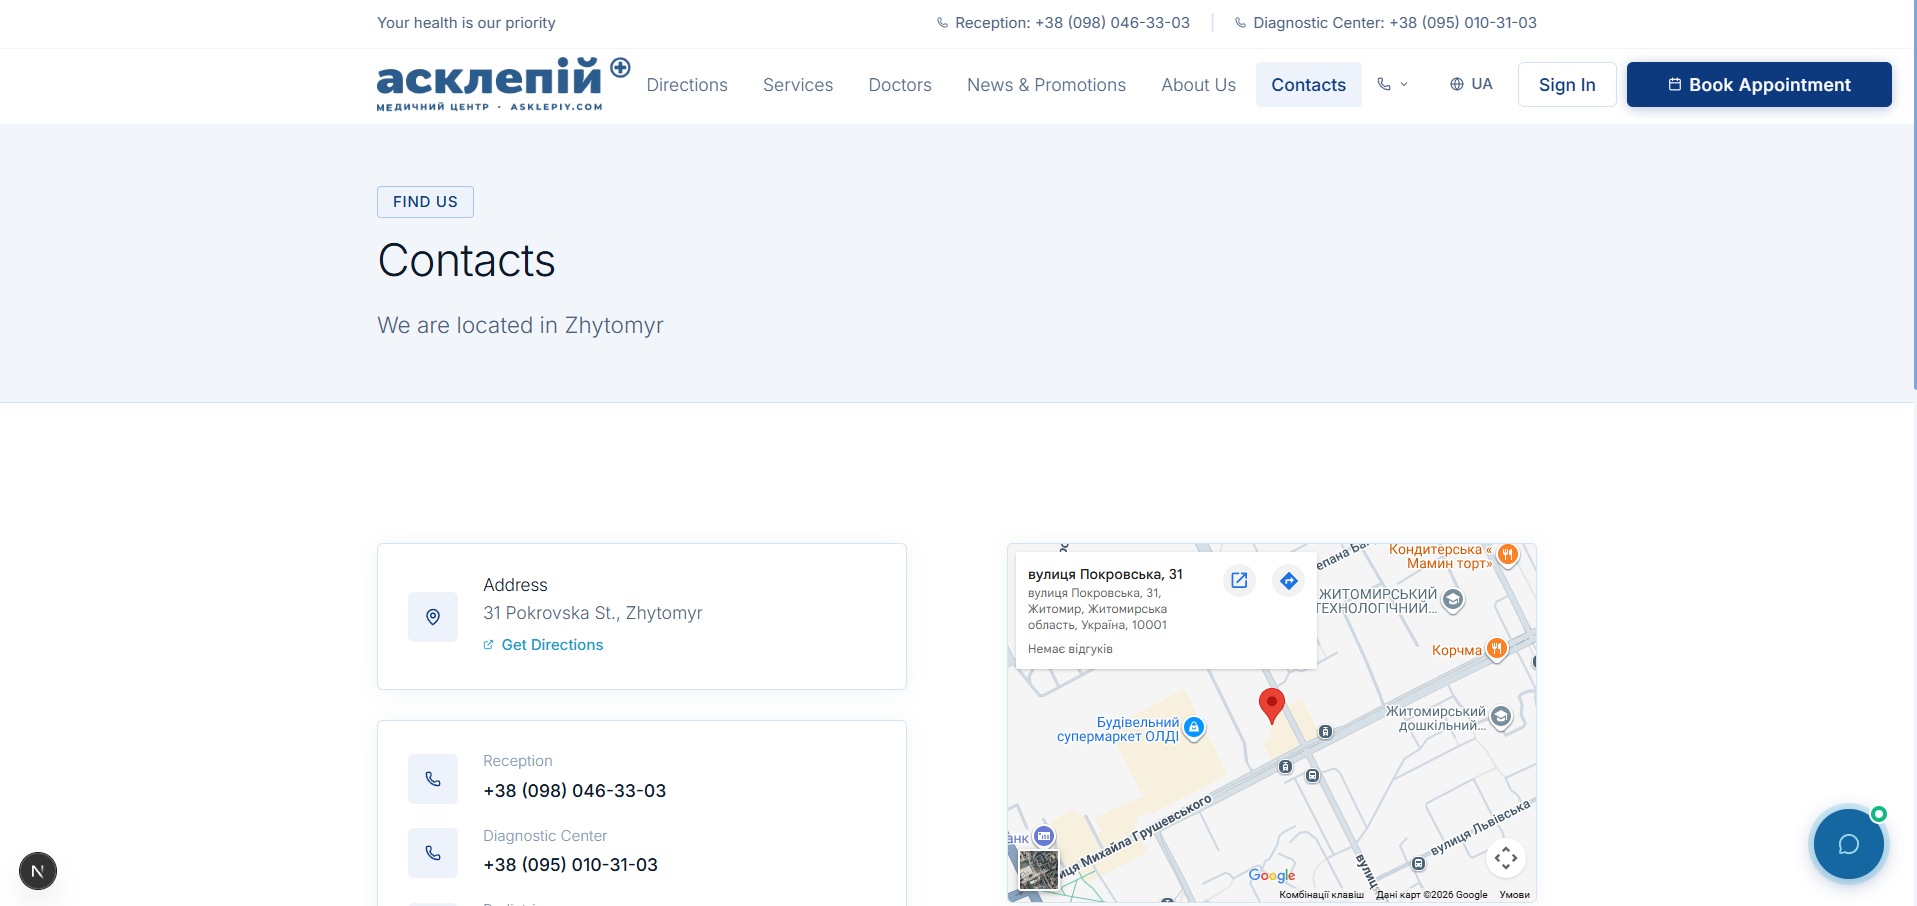
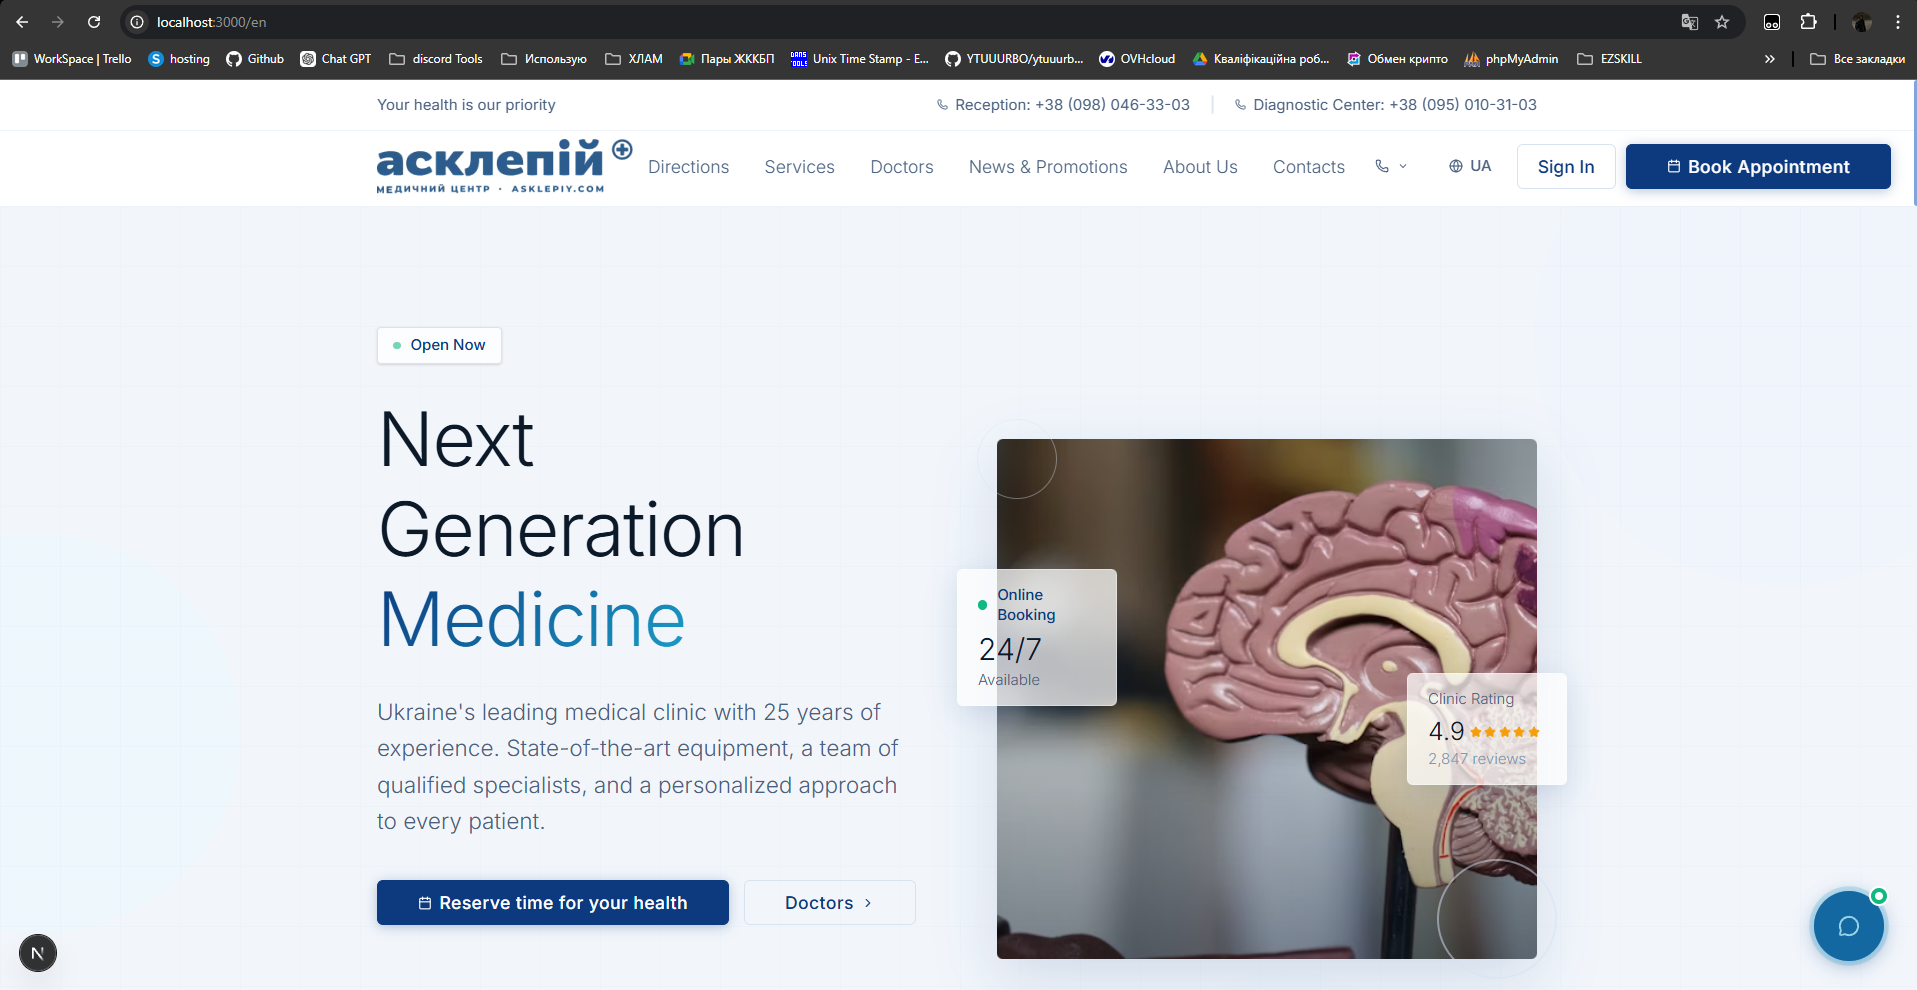
Fixed

diff --git a/src/components/layout/Header.tsx b/src/components/layout/Header.tsx
@@ -38,26 +38,8 @@ export function Header() {
   }, [pathname]);
 
   useEffect(() => {
-    if (mobileOpen) {
-      const scrollY = window.scrollY;
-      document.body.style.position = "fixed";
-      document.body.style.top = `-${scrollY}px`;
-      document.body.style.width = "100%";
-      document.body.style.overflow = "hidden";
-    } else {
-      const scrollY = document.body.style.top;
-      document.body.style.position = "";
-      document.body.style.top = "";
-      document.body.style.width = "";
-      document.body.style.overflow = "";
-      if (scrollY) window.scrollTo(0, parseInt(scrollY) * -1);
-    }
-    return () => {
-      document.body.style.position = "";
-      document.body.style.top = "";
-      document.body.style.width = "";
-      document.body.style.overflow = "";
-    };
+    document.documentElement.style.overflowY = mobileOpen ? "hidden" : "";
+    return () => { document.documentElement.style.overflowY = ""; };
   }, [mobileOpen]);
 
   type AppPath = "/" | "/napryamky" | "/posluhy" | "/likari" | "/novyny" | "/pro-nas" | "/kontakty";
@@ -96,22 +78,22 @@ export function Header() {
         {/* Top bar */}
         <div className="border-b border-[#D6E3F0]/40 hidden lg:block">
           <div className="container-clinic">
-            <div className="flex items-center justify-between h-10 text-xs text-[#4A6180]">
+            <div className="flex items-center justify-between h-[30px] text-[11px] text-[#4A6180]">
               <span className="whitespace-nowrap">{t("header.tagline")}</span>
-              <div className="flex items-center gap-4 flex-shrink-0">
+              <div className="flex items-center gap-3 flex-shrink-0">
                 <a
                   href={`tel:${PHONE_NUMBERS.reception.replace(/\s/g, "")}`}
-                  className="flex items-center gap-1.5 hover:text-[#0D3A7E] transition-colors whitespace-nowrap"
+                  className="flex items-center gap-1 hover:text-[#0D3A7E] transition-colors whitespace-nowrap"
                 >
-                  <Phone size={11} />
+                  <Phone size={9} />
                   <span>{t("header.phones.reception")}: {PHONE_NUMBERS.reception}</span>
                 </a>
                 <span className="text-[#D6E3F0]">|</span>
                 <a
                   href={`tel:${PHONE_NUMBERS.diagnostic.replace(/\s/g, "")}`}
-                  className="flex items-center gap-1.5 hover:text-[#0D3A7E] transition-colors whitespace-nowrap"
+                  className="flex items-center gap-1 hover:text-[#0D3A7E] transition-colors whitespace-nowrap"
                 >
-                  <Phone size={11} />
+                  <Phone size={9} />
                   <span>{t("header.phones.diagnostic")}: {PHONE_NUMBERS.diagnostic}</span>
                 </a>
               </div>
@@ -121,27 +103,29 @@ export function Header() {
 
         {/* Main navigation */}
         <div className="container-clinic">
-          <div className="flex items-center justify-between h-16 lg:h-[70px]">
+          <div className="flex items-center h-12 lg:h-[52px]">
             {/* Logo */}
+            <div className="flex-1 flex items-center">
             <Link href="/" className="flex items-center flex-shrink-0">
               <Image
                 src="/logo.webp"
                 alt="Асклепій — Медичний центр"
-                width={160}
-                height={52}
+                width={120}
+                height={39}
                 priority
-                className="h-9 w-auto lg:h-11 object-contain"
+                className="h-7 w-auto lg:h-8 object-contain"
               />
             </Link>
+            </div>
 
             {/* Desktop nav */}
-            <nav className="hidden xl:flex items-center gap-1" aria-label="Main navigation">
+            <nav className="hidden xl:flex items-center gap-0.5" aria-label="Main navigation">
               {navLinks.map((link) => (
                 <Link
                   key={link.href}
                   href={link.href}
                   className={cn(
-                    "px-3 py-2 text-sm font-light rounded-[4px] transition-all duration-200 whitespace-nowrap",
+                    "px-2 py-1 text-[13px] font-light rounded-[4px] transition-all duration-200 whitespace-nowrap",
                     "hover:text-[#0D3A7E] hover:bg-[#EEF3FB]",
                     pathname === link.href
                       ? "text-[#0D3A7E] bg-[#EEF3FB] font-medium"
@@ -154,16 +138,16 @@ export function Header() {
             </nav>
 
             {/* Right actions */}
-            <div className="flex items-center gap-2 flex-shrink-0">
+            <div className="flex-1 flex items-center justify-end gap-2">
               {/* Phone dropdown (desktop) */}
               <div className="relative hidden lg:block">
                 <button
                   onClick={() => setPhoneDropdown(!phoneDropdown)}
-                  className="flex items-center gap-1.5 h-9 px-3 text-sm text-[#4A6180] hover:text-[#0D3A7E] rounded-[6px] hover:bg-[#EEF3FB] transition-all"
+                  className="flex items-center gap-1 h-7 px-2 text-[13px] text-[#4A6180] hover:text-[#0D3A7E] rounded-[6px] hover:bg-[#EEF3FB] transition-all"
                   aria-expanded={phoneDropdown}
                 >
-                  <Phone size={14} />
-                  <ChevronDown size={12} className={cn("transition-transform", phoneDropdown && "rotate-180")} />
+                  <Phone size={12} />
+                  <ChevronDown size={10} className={cn("transition-transform", phoneDropdown && "rotate-180")} />
                 </button>
                 <AnimatePresence>
                   {phoneDropdown && (
@@ -199,11 +183,11 @@ export function Header() {
               {/* Language toggle */}
               <button
                 onClick={toggleLocale}
-                className="hidden sm:flex items-center gap-1.5 h-9 px-3 text-sm text-[#4A6180] hover:text-[#0D3A7E] rounded-[6px] hover:bg-[#EEF3FB] transition-all"
+                className="hidden sm:flex items-center gap-1 h-7 px-2 text-[13px] text-[#4A6180] hover:text-[#0D3A7E] rounded-[6px] hover:bg-[#EEF3FB] transition-all"
                 aria-label="Toggle language"
               >
-                <Globe size={14} />
-                <span className="font-medium uppercase text-xs">
+                <Globe size={12} />
+                <span className="font-medium uppercase text-[11px]">
                   {locale === "uk" ? "EN" : "UA"}
                 </span>
               </button>
@@ -213,7 +197,7 @@ export function Header() {
                 href="https://patient-docs.com/login"
                 target="_blank"
                 rel="noopener noreferrer"
-                className="hidden lg:flex items-center h-9 px-4 text-sm text-[#0D3A7E] font-medium rounded-[6px] border border-[#D6E3F0] hover:bg-[#EEF3FB] hover:border-[#0D3A7E] transition-all whitespace-nowrap"
+                className="hidden lg:flex items-center h-7 px-3 text-[13px] text-[#0D3A7E] font-medium rounded-[6px] border border-[#D6E3F0] hover:bg-[#EEF3FB] hover:border-[#0D3A7E] transition-all whitespace-nowrap"
               >
                 {t("nav.signIn")}
               </a>
@@ -222,9 +206,9 @@ export function Header() {
               <Link href="/napryamky">
                 <Button
                   variant="primary"
-                  size="sm"
+                  size="xs"
                   className="hidden lg:inline-flex whitespace-nowrap"
-                  icon={<Calendar size={14} />}
+                  icon={<Calendar size={12} />}
                 >
                   {t("header.bookButton")}
                 </Button>
@@ -233,7 +217,7 @@ export function Header() {
               {/* Mobile menu toggle */}
               <button
                 onClick={() => setMobileOpen(!mobileOpen)}
-                className="xl:hidden flex items-center justify-center w-10 h-10 rounded-[6px] text-[#0C1929] hover:bg-[#EEF3FB] transition-all"
+                className="xl:hidden flex items-center justify-center w-8 h-8 rounded-[6px] text-[#0C1929] hover:bg-[#EEF3FB] transition-all"
                 aria-label="Toggle menu"
                 aria-expanded={mobileOpen}
               >
@@ -246,7 +230,7 @@ export function Header() {
                       exit={{ rotate: 90, opacity: 0 }}
                       transition={{ duration: 0.15 }}
                     >
-                      <X size={20} />
+                      <X size={16} />
                     </motion.span>
                   ) : (
                     <motion.span
@@ -256,7 +240,7 @@ export function Header() {
                       exit={{ rotate: -90, opacity: 0 }}
                       transition={{ duration: 0.15 }}
                     >
-                      <Menu size={20} />
+                      <Menu size={16} />
                     </motion.span>
                   )}
                 </AnimatePresence>

diff --git a/src/features/ai-assistant/AIWidget.tsx b/src/features/ai-assistant/AIWidget.tsx
@@ -131,26 +131,12 @@ export function AIWidget() {
   }, []);
 
   useEffect(() => {
-    if (isOpen) {
-      const scrollY = window.scrollY;
-      document.body.style.position = "fixed";
-      document.body.style.top = `-${scrollY}px`;
-      document.body.style.width = "100%";
-      document.body.style.overflow = "hidden";
+    if (isOpen && window.innerWidth < 640) {
+      document.documentElement.style.overflowY = "hidden";
     } else {
-      const scrollY = document.body.style.top;
-      document.body.style.position = "";
-      document.body.style.top = "";
-      document.body.style.width = "";
-      document.body.style.overflow = "";
-      if (scrollY) window.scrollTo(0, parseInt(scrollY || "0") * -1);
+      document.documentElement.style.overflowY = "";
     }
-    return () => {
-      document.body.style.position = "";
-      document.body.style.top = "";
-      document.body.style.width = "";
-      document.body.style.overflow = "";
-    };
+    return () => { document.documentElement.style.overflowY = ""; };
   }, [isOpen]);
 
   const sendMessage = useCallback(async () => {

diff --git a/src/components/ui/Button.tsx b/src/components/ui/Button.tsx
@@ -46,9 +46,9 @@ const variantStyles: Record<ButtonVariant, string> = {
 
 const sizeStyles: Record<ButtonSize, string> = {
   xs: "h-8 px-3 text-[13px] gap-1",
-  sm: "h-9 px-4 text-sm gap-1.5",
-  md: "h-11 px-6 text-sm gap-2",
-  lg: "h-13 px-8 text-base gap-2.5",
+  sm: "h-9 px-4 text-[13px] gap-1.5",
+  md: "h-11 px-6 text-[14px] gap-2",
+  lg: "h-13 px-8 text-[16px] gap-2.5",
 };
 
 export const Button = forwardRef<HTMLButtonElement, ButtonProps>(

diff --git a/src/app/[locale]/layout.tsx b/src/app/[locale]/layout.tsx
@@ -48,7 +48,7 @@ export default async function LocaleLayout({ children, params }: LocaleLayoutPro
         <ScrollToTop />
         <div className="flex flex-col min-h-screen w-full">
           <Header />
-          <main className="flex-1 pt-[68px] lg:pt-[126px] w-full">
+          <main className="flex-1 pt-[48px] lg:pt-[82px] w-full">
             {children}
           </main>
           <Footer />
